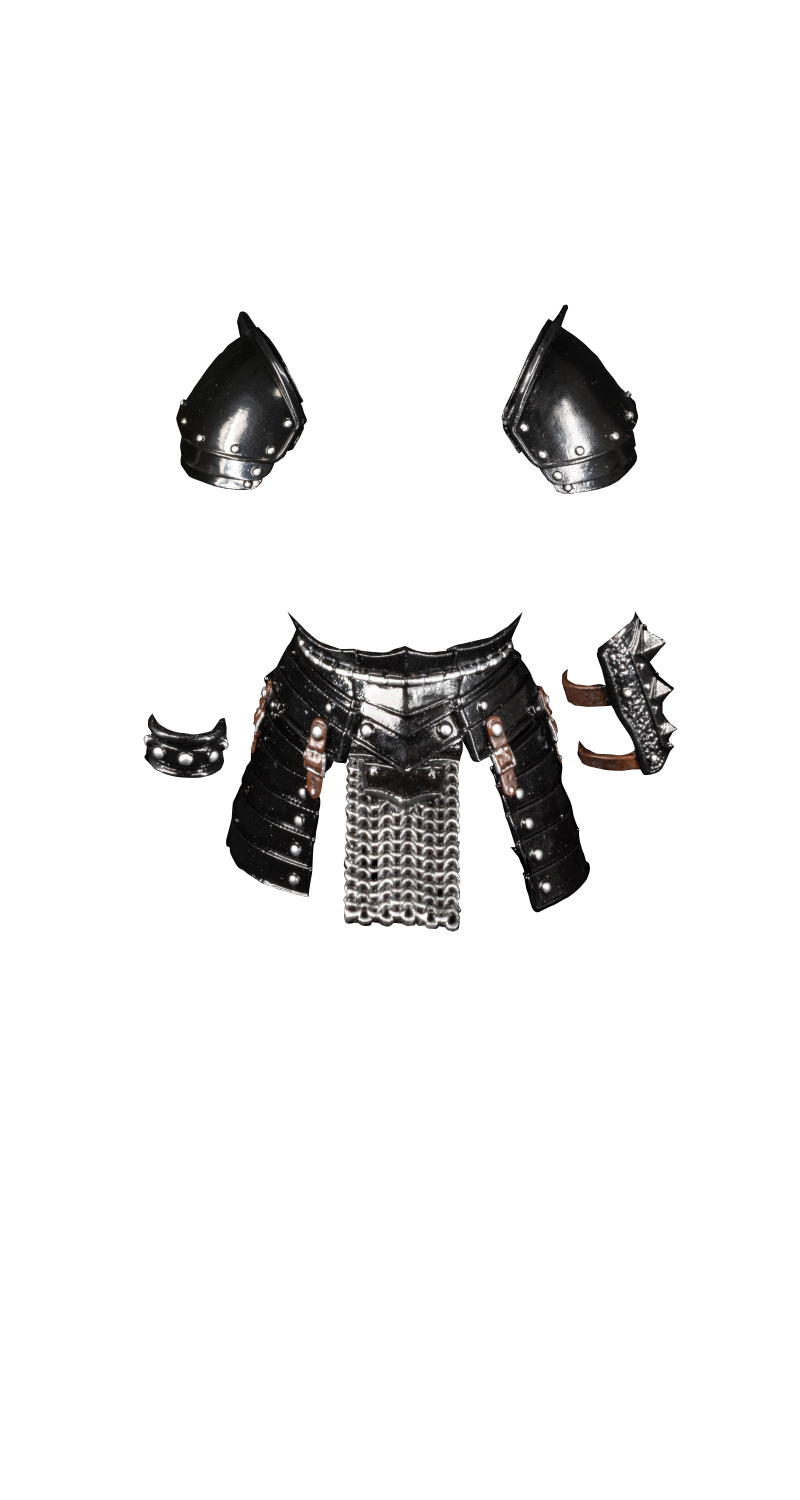
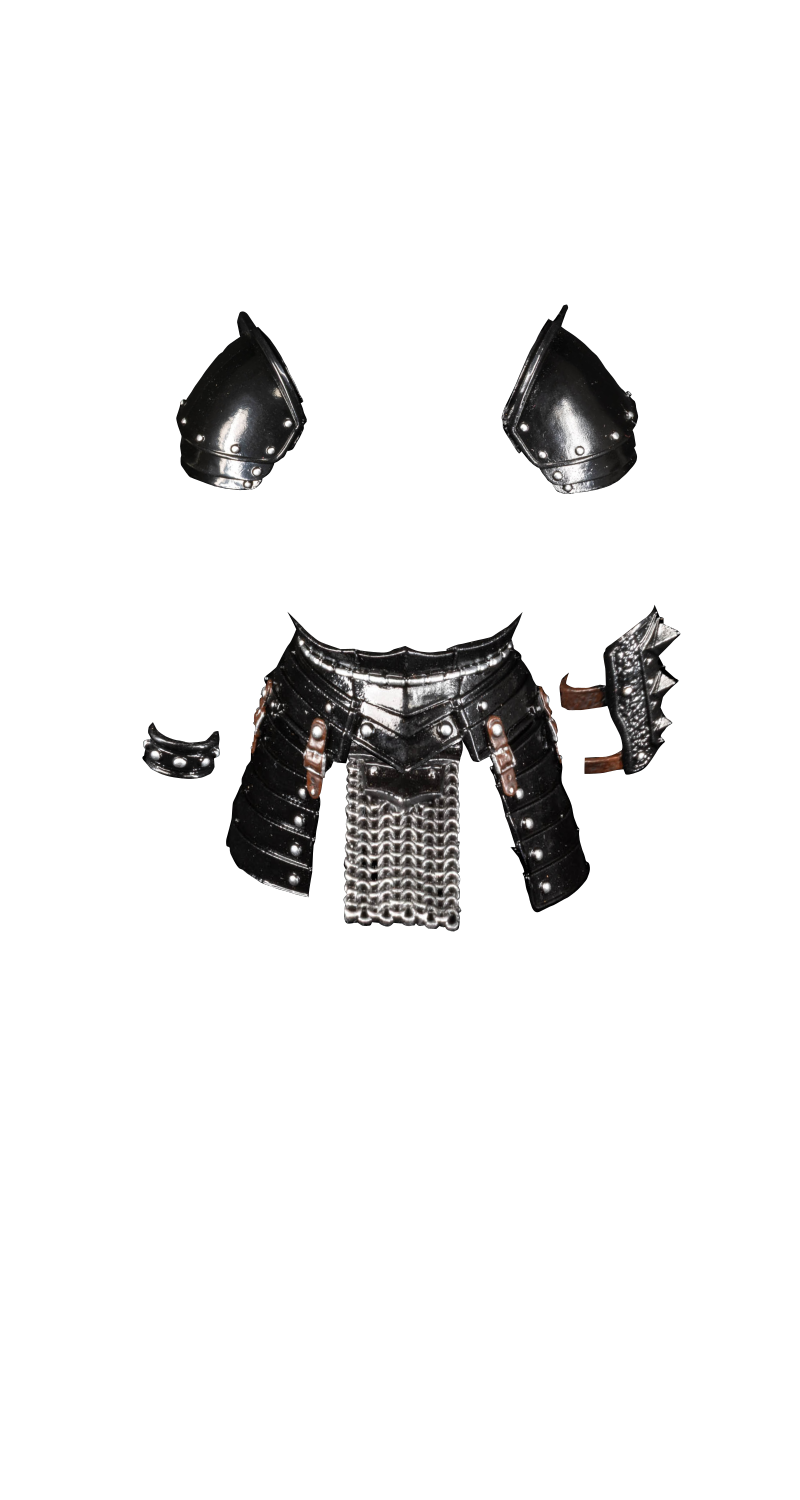
Added Tattered Armor; bumped up lower legs

Changed region(s): [[0.6875, 0.3987, 0.8438, 0.5213], [0.1562, 0.46, 0.2812, 0.5213]]

diff --git a/index.html b/index.html
@@ -39,6 +39,11 @@
             box-shadow: 0 6px 12px rgba(0, 0, 0, 0.23), 0 3px 6px rgba(0, 0, 0, 0.16);
         }
 
+        .externallink {
+            color: #20c997;
+            text-decoration: underline;
+        }
+
         /* Active state for sidebar icons */
         .icon-btn.active {
             color: #ffc107;
@@ -487,7 +492,7 @@
                     <div id="welcome-message" class="absolute inset-0 flex items-center justify-center p-4 text-center">
                         <div class="max-w-prose space-y-2">
                             <h3 class="text-xl font-semibold text-gray-400">Welcome to the Armory Assistant!</h3>
-                            <p class="text-gray-500 text-sm">In the Armory Experience, you will make some choices about your figure that you are building. You will select an Upper Body (with tail), Lower Body, Armor Set, and Helmet. You will also get to pick up a set of Weapons and a Trophy for your custom Legendary Gladiator!</p>
+                            <p class="text-gray-500 text-sm">At the Legions Con Armory Experience, you will make some choices about your figure that you are building. You will select an Upper Body (with tail), Lower Body, Armor Set, and Helmet.</p>
                             <p class="text-gray-500 text-sm">This app will help you plan ahead and play around with those same selections. Choose your parts, or roll the die for a surprise!</p>
                             <p class="text-gray-500 text-sm">Take a screenshot and save your ideas for later.</p>
                             <p class="text-gray-500 text-sm">Press the '?' Question Mark for more information/help.</p>   
@@ -520,7 +525,8 @@
                             <li><strong class="text-amber-400">Tail:</strong> This will turn the tail that comes with your Upper Body on and off. </li>
                             <li><strong class="text-amber-400">Randomize:</strong> Feeling lucky? Click the "Randomize" icon (the die) to have the app select gear. Whether the tail will appear is random, and there is a chance for no helmet to be selected.</li>
                             <li><strong class="text-amber-400">Clear All:</strong> To remove all currently equipped items, click the "Clear" icon (the 'X').</li>
-                            <li><strong class="text-amber-400">Exclusive:</strong> Choices with parts that are completely or partially exclusive to the LegionsCon Armory Experience are marked with 'EX' so you can be informed. Those parts (highlighted on the thumbnail) will not be available when the pre-built versions of the figures are sold through store-horsemen.com. Credit and Thanks goes to Bill Drewnowski (DorkLair) for compiling this information and his additional input.</li>
+                            <li><strong class="text-amber-400">Exclusive:</strong> Choices with parts that are completely or partially exclusive to the LegionsCon Armory Experience are marked with 'EX' so you can be informed. Those parts (highlighted on the thumbnail) will not be available when the pre-built versions of the figures are sold through <a href="https://store-horsemen.myshopify.com/" class="externallink">Store Horsemen</a>. Credit and Thanks goes to Bill Drewnowski (DorkLair) for compiling this information and his additional input.</li>
+                            <li><strong class="text-amber-400">Legions Con:</strong> The Armory Experience is only at Legions Con. Find out more about the event at <a href="https://legionscon.com/" class="externallink">legionscon.com</a> </li>
                         </ul>
                         <p class="mt-4 text-sm text-gray-500 text-center">Special thanks goes to Jeff-Rey Evans for his invaluable help collaborating on this project. And, of course, to everyone at Four Horseman Studios for letting me do this again :) -- Kurr'b</p>
                     </div>
@@ -586,10 +592,10 @@
                         { id: "armor-legion-blood", name: "Blood Legion Armor", thumbnailUrl: "images/armor_legion_blood_thumb.png", displayUrl: "" },
                         { id: "armor-legion-grungy", name: "Grungy Legion Armor", thumbnailUrl: "images/armor_legion_grungy_thumb.png", displayUrl: "" },
                         { id: "armor-legion-silver", name: "Silver Legion Armor", thumbnailUrl: "images/armor_legion_silver_thumb.png", displayUrl: "" },
-                        { id: "armor-tattered-black", name: "Black Tattered Armor", thumbnailUrl: "images/armor_tattered_black_thumb.png", displayUrl: "" },
-                        { id: "armor-tattered-blood", name: "Blood Tattered Armor", thumbnailUrl: "images/armor_tattered_blood_thumb.png", displayUrl: "" },
-                        { id: "armor-tattered-grungy", name: "Grungy Tattered Armor", thumbnailUrl: "images/armor_tattered_grungy_thumb.png", displayUrl: "" },
-                        { id: "armor-tattered-silver", name: "Silver Tattered Armor", thumbnailUrl: "images/armor_tattered_silver_thumb.png", displayUrl: "" },
+                        { id: "armor-tattered-black", name: "Black Tattered Armor", thumbnailUrl: "images/armor_tattered_black_thumb.png", displayUrl: "images/armor_tattered_black.png" },
+                        { id: "armor-tattered-blood", name: "Blood Tattered Armor", thumbnailUrl: "images/armor_tattered_blood_thumb.png", displayUrl: "images/armor_tattered_blood.png" },
+                        { id: "armor-tattered-grungy", name: "Grungy Tattered Armor", thumbnailUrl: "images/armor_tattered_grungy_thumb.png", displayUrl: "images/armor_tattered_grungy.png" },
+                        { id: "armor-tattered-silver", name: "Silver Tattered Armor", thumbnailUrl: "images/armor_tattered_silver_thumb.png", displayUrl: "images/armor_tattered_silver.png " },
                         { id: "armor-valiant-black", name: "Black Valiant Armor", thumbnailUrl: "images/armor_valiant_black_thumb.png", displayUrl: "images/armor_valiant_black.png" },
                         { id: "armor-valiant-blood", name: "Blood Valiant Armor", thumbnailUrl: "images/armor_valiant_blood_thumb.png", displayUrl: "images/armor_valiant_blood.png" },
                         { id: "armor-valiant-grungy", name: "Grungy Valiant Armor", thumbnailUrl: "images/armor_valiant_grungy_thumb.png", displayUrl: "images/armor_valiant_grungy.png" },
